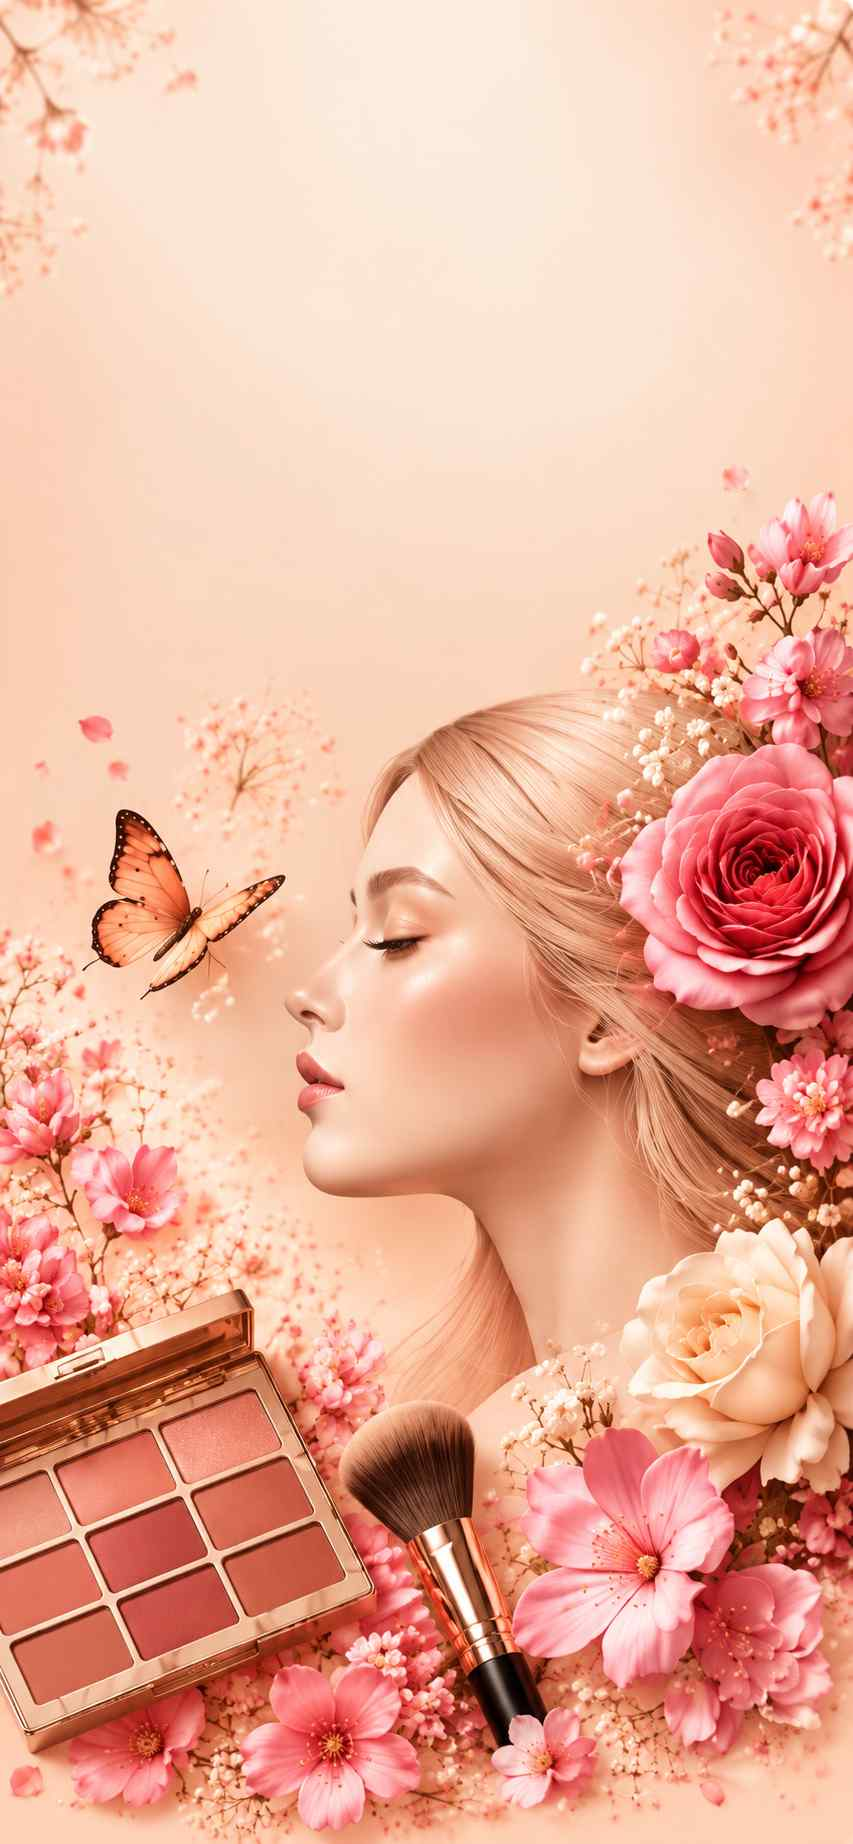
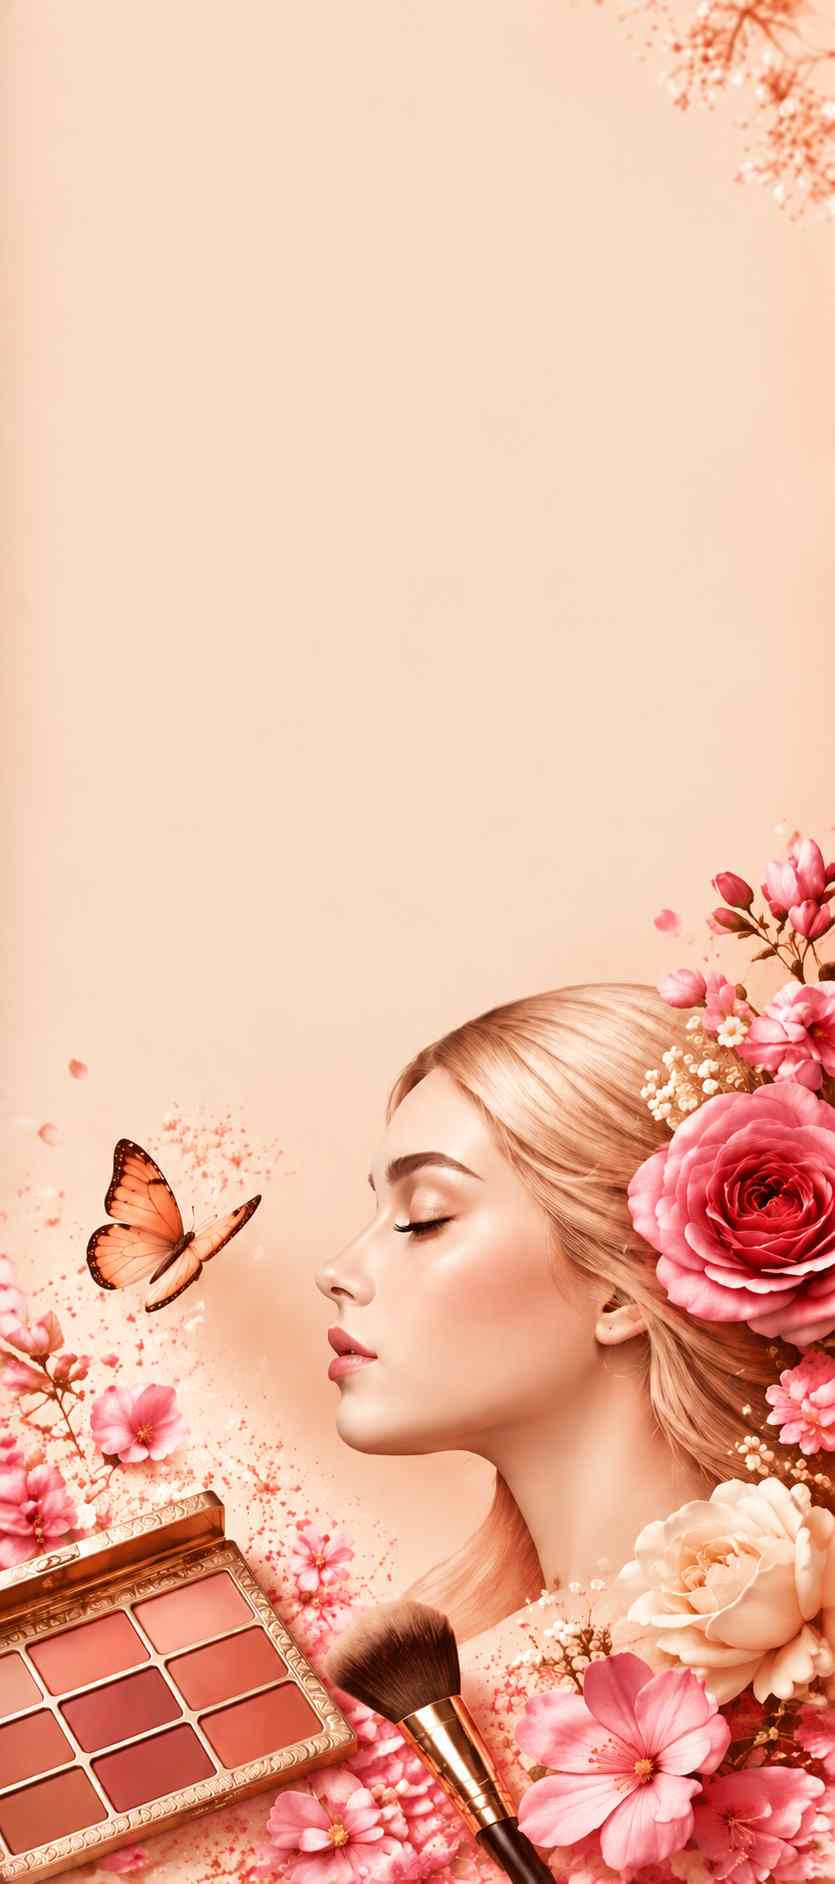
fix: update mobile hero image, anchor crop to top
Swapped in the latest mobile hero asset and changed object-center to
object-top so object-cover crops from the image's empty top region
(where the headline sits) instead of the center. The "zoomed in" look
reported earlier was actually the Next.js image optimizer cache
serving a stale rendition under the unchanged filename.

diff --git a/src/app/(public)/page.tsx b/src/app/(public)/page.tsx
@@ -143,7 +143,7 @@ export default function HomePage() {
           fill
           loading="eager"
           quality={80}
-          className="hero-image-zoom-anim md:hidden object-cover object-center saturate-[.95]"
+          className="md:hidden object-cover object-top saturate-[.95]"
           sizes="100vw"
         />
         <div className="absolute inset-0 flex flex-col items-center md:items-start text-center md:text-left pt-[100px] md:pt-[160px] lg:pt-[200px] 2xl:pt-[22vh] pb-8 md:pb-0 px-6 md:px-16 lg:px-[100px] xl:px-[140px] site-container w-full justify-between md:justify-start">

diff --git a/UPDATES.md b/UPDATES.md
@@ -1,3 +1,53 @@
+## 2026-09-14 — Update mobile hero image asset (3rd time) + fix stale-crop/cache issue
+
+**Status:** DONE
+
+Replaced `public/images/mobile images/mobile hero.jpeg` with another updated
+version (835x1884, portrait, 75KB). Same filename/path as before, so no code
+changes needed for the swap itself — `src/app/(public)/page.tsx:141` already
+references this exact path for the mobile hero `<Image>`.
+
+Also changed the mobile hero's `object-center` to `object-top` (line 146) so
+`object-cover` anchors from the top of the source image (where the empty
+space for the headline text is) instead of centering the crop.
+
+**Root cause of "image looks too zoomed in":** not a CSS/crop bug — Next.js's
+image optimizer caches transformed output in `.next/cache/images` keyed by
+the source URL, not file content. Since the filename didn't change, the dev
+server kept serving the previously-cached (old) rendition even after the file
+on disk was replaced. Deleted `.next/cache/images` to force regeneration;
+confirmed via a fresh Playwright screenshot at a 390x844 viewport that the
+new image now renders correctly with `object-top`.
+
+**Note for next time:** any future same-filename image replacement will hit
+this same stale-cache issue in local dev. Clear `.next/cache/images` (or
+restart `next dev`) after swapping an image asset in place.
+
+### Files touched
+- `public/images/mobile images/mobile hero.jpeg` — new image asset
+- `src/app/(public)/page.tsx` — `object-center` → `object-top` on mobile hero
+
+### Verified
+- New file confirmed as valid JPEG at 835x1884.
+- Screenshot at 390x844 mobile viewport confirms correct, non-stale render.
+
+---
+
+## 2026-09-14 — Remove hero zoom animation on mobile (was cropping the image)
+
+**Status:** DONE
+
+`.hero-image-zoom-anim` (in `HomePageAnimator.tsx`) does `gsap.from(scale: 1.15 -> 1)`
+on load. With `object-cover` already filling the container, starting at 1.15x pushed
+part of the mobile hero image outside the visible frame during the animation. Removed
+the class from the mobile `<Image>` in `src/app/(public)/page.tsx:146` only — desktop
+keeps the zoom-out effect since its wider viewport doesn't show the same cropping issue.
+
+### Files touched
+- `src/app/(public)/page.tsx` — dropped `hero-image-zoom-anim` from mobile hero image
+
+---
+
 ## 2026-09-14 — Update mobile hero image asset (again)
 
 **Status:** DONE
